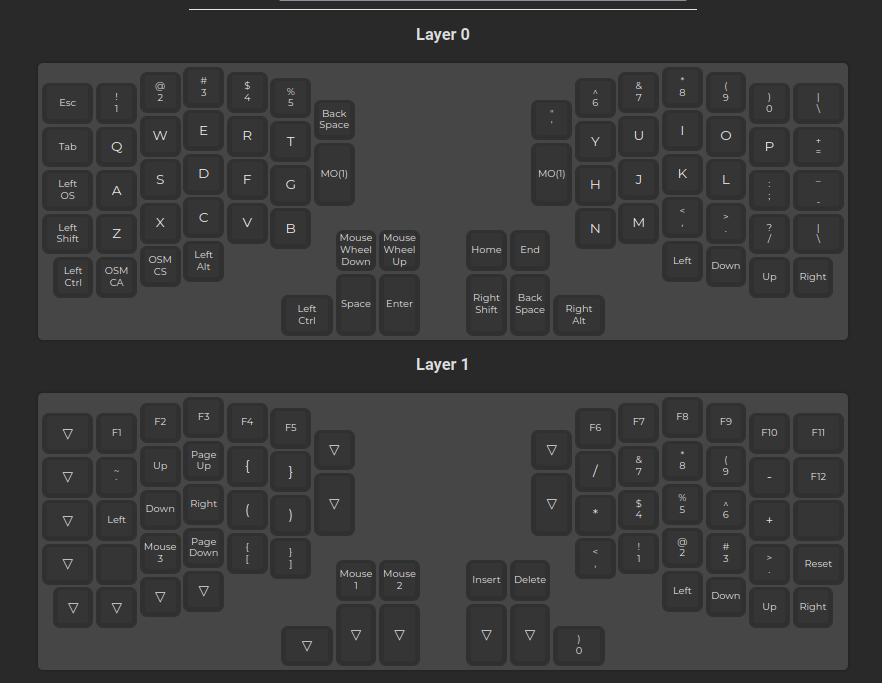
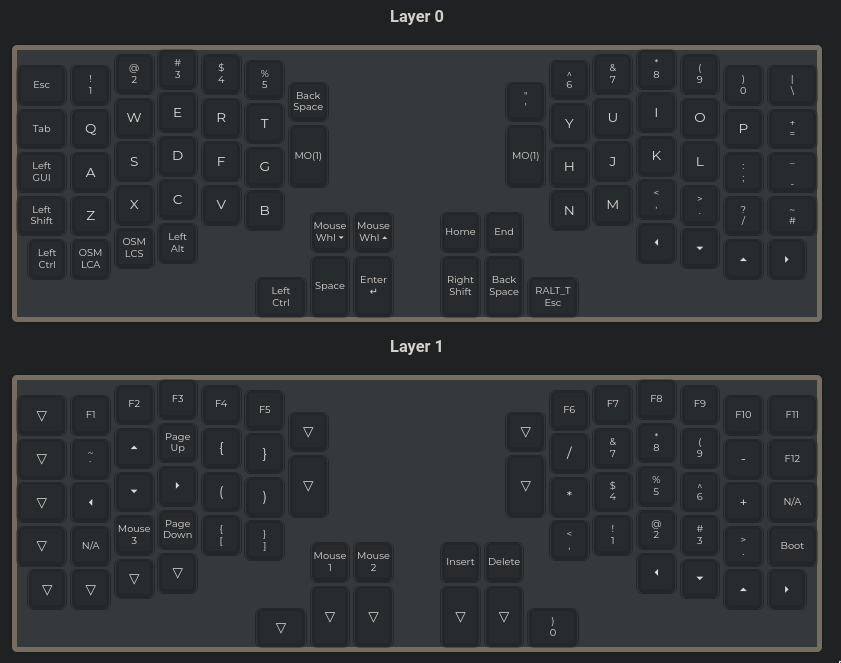
Testing tap/hold

diff --git a/keymap.c b/keymap.c
@@ -11,9 +11,10 @@
  */
 
 const uint16_t PROGMEM keymaps[][MATRIX_ROWS][MATRIX_COLS] = {
-    [0] = LAYOUT(KC_ESC, KC_1, KC_2, KC_3, KC_4, KC_5, KC_6, KC_7, KC_8, KC_9, KC_0, KC_NUBS, KC_TAB, KC_Q, KC_W, KC_E, KC_R, KC_T, KC_BSPC, KC_QUOT, KC_Y, KC_U, KC_I, KC_O, KC_P, KC_EQL, KC_LGUI, KC_A, KC_S, KC_D, KC_F, KC_G, MO(1), MO(1), KC_H, KC_J, KC_K, KC_L, KC_SCLN, KC_MINS, KC_LSFT, KC_Z, KC_X, KC_C, KC_V, KC_B, MS_WHLD, MS_WHLU, KC_HOME, KC_END, KC_N, KC_M, KC_COMM, KC_DOT, KC_SLSH, KC_NUHS, KC_LCTL, OS_LCA, OS_LCS, KC_LALT, KC_LCTL, KC_SPC, KC_ENT, KC_RSFT, KC_BSPC, KC_RALT, KC_LEFT, KC_DOWN, KC_UP, KC_RGHT),
+    [0] = LAYOUT(KC_ESC, KC_1, KC_2, KC_3, KC_4, KC_5, KC_6, KC_7, KC_8, KC_9, KC_0, KC_NUBS, KC_TAB, KC_Q, KC_W, KC_E, KC_R, KC_T, KC_BSPC, KC_QUOT, KC_Y, KC_U, KC_I, KC_O, KC_P, KC_EQL, KC_LGUI, KC_A, KC_S, KC_D, KC_F, KC_G, MO(1), MO(1), KC_H, KC_J, KC_K, KC_L, KC_SCLN, KC_MINS, KC_LSFT, KC_Z, KC_X, KC_C, KC_V, KC_B, MS_WHLD, MS_WHLU, KC_HOME, KC_END, KC_N, KC_M, KC_COMM, KC_DOT, KC_SLSH, KC_NUHS, KC_LCTL, OS_LCA, OS_LCS, KC_LALT, KC_LCTL, KC_SPC, KC_ENT, KC_RSFT, KC_BSPC, RALT_T(KC_ESC), KC_LEFT, KC_DOWN, KC_UP, KC_RGHT),
     [1] = LAYOUT(KC_TRNS, KC_F1, KC_F2, KC_F3, KC_F4, KC_F5, KC_F6, KC_F7, KC_F8, KC_F9, KC_F10, KC_F11, KC_TRNS, KC_GRV, KC_UP, KC_PGUP, KC_LCBR, KC_RCBR, KC_TRNS, KC_TRNS, KC_PSLS, KC_7, KC_8, KC_9, KC_PMNS, KC_F12, KC_TRNS, KC_LEFT, KC_DOWN, KC_RGHT, KC_LPRN, KC_RPRN, KC_TRNS, KC_TRNS, KC_PAST, KC_4, KC_5, KC_6, KC_PPLS, KC_NO, KC_TRNS, KC_NO, MS_BTN3, KC_PGDN, KC_LBRC, KC_RBRC, MS_BTN1, MS_BTN2, KC_INS, KC_DEL, KC_COMM, KC_1, KC_2, KC_3, KC_DOT, QK_BOOT, KC_TRNS, KC_TRNS, KC_TRNS, KC_TRNS, KC_TRNS, KC_TRNS, KC_TRNS, KC_TRNS, KC_TRNS, KC_0, KC_LEFT, KC_DOWN, KC_UP, KC_RGHT)
 };
+
 
 
 

diff --git a/Readme.md b/Readme.md
@@ -4,6 +4,14 @@ There are extra contents:
 - A .zip file with an installer for colemak UK.
 - A .sh script that can be used to run the script in case the default build environments are not set. It fetches the new keymap in the Downloads folder.
 
+# Errror building? 
+If you run qmk doctor and have an error on avr-gcc failing to compile a test or when you try to compile your code, it gives a compilation code about missing something, it is probably because the current version of avr-gcc is too up to date. It seems that qmk recommends the version 8.3.0. So if you want to, downgrade your current avr-gcc version and retry.
+```
+sudo downgrade avr-gcc
+```
+or use the existing pacman functionalit
+Do the same for avr-libc to version 2.5.0
+
 # Where to clone
 Clone in .../qmk_firmware/keyboards/redox/keymaps
 
@@ -13,7 +21,6 @@ cd "your/path/to/keymaps"
 qmk json2c goosoe.json -o keymap.c
 qmk flash
 ```
-
 
 # Software layout:
 - UK extended (available in Windows and Linux)
